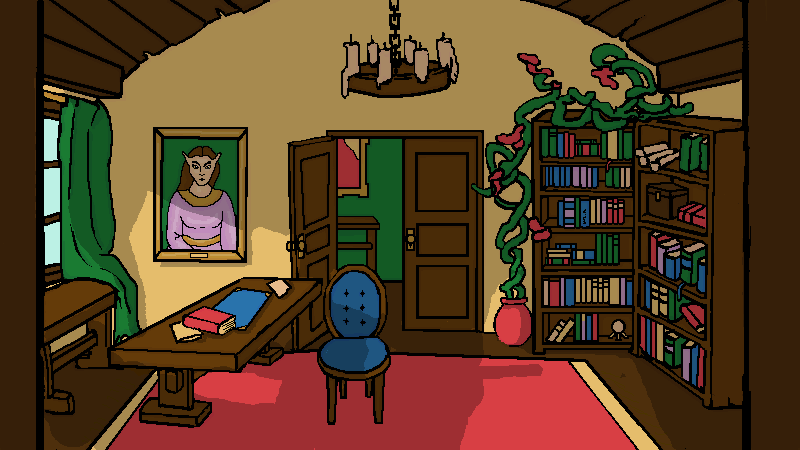
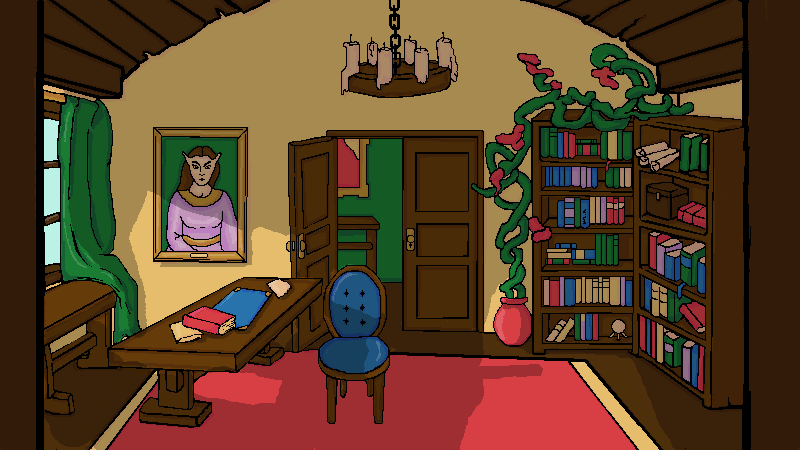
New backgroud + potential bug fix (levelmanager)

diff --git a/Assets/Scripts/LevelManager.cs b/Assets/Scripts/LevelManager.cs
@@ -39,9 +39,9 @@ public class LevelManager : MonoBehaviour
     /// </summary>
     public int CurrentDay { get { return _currentDay; } }
 
-    public MailCueTypes GetCurrentMailinfo()
+    public MailCueTypes GetCurrentMailinfo()//if hamspambuttons are pressed before mail has been instanciated mail will be 0
     {
-        if(dailyMailsScriptObj.GetCurrentMailinfo(_currentDay, _currentMail, out MailCueTypes mailCues))
+        if(_currentMail.Equals(0) && dailyMailsScriptObj.GetCurrentMailinfo(_currentDay, _currentMail, out MailCueTypes mailCues))
         {
             return mailCues;
         }
